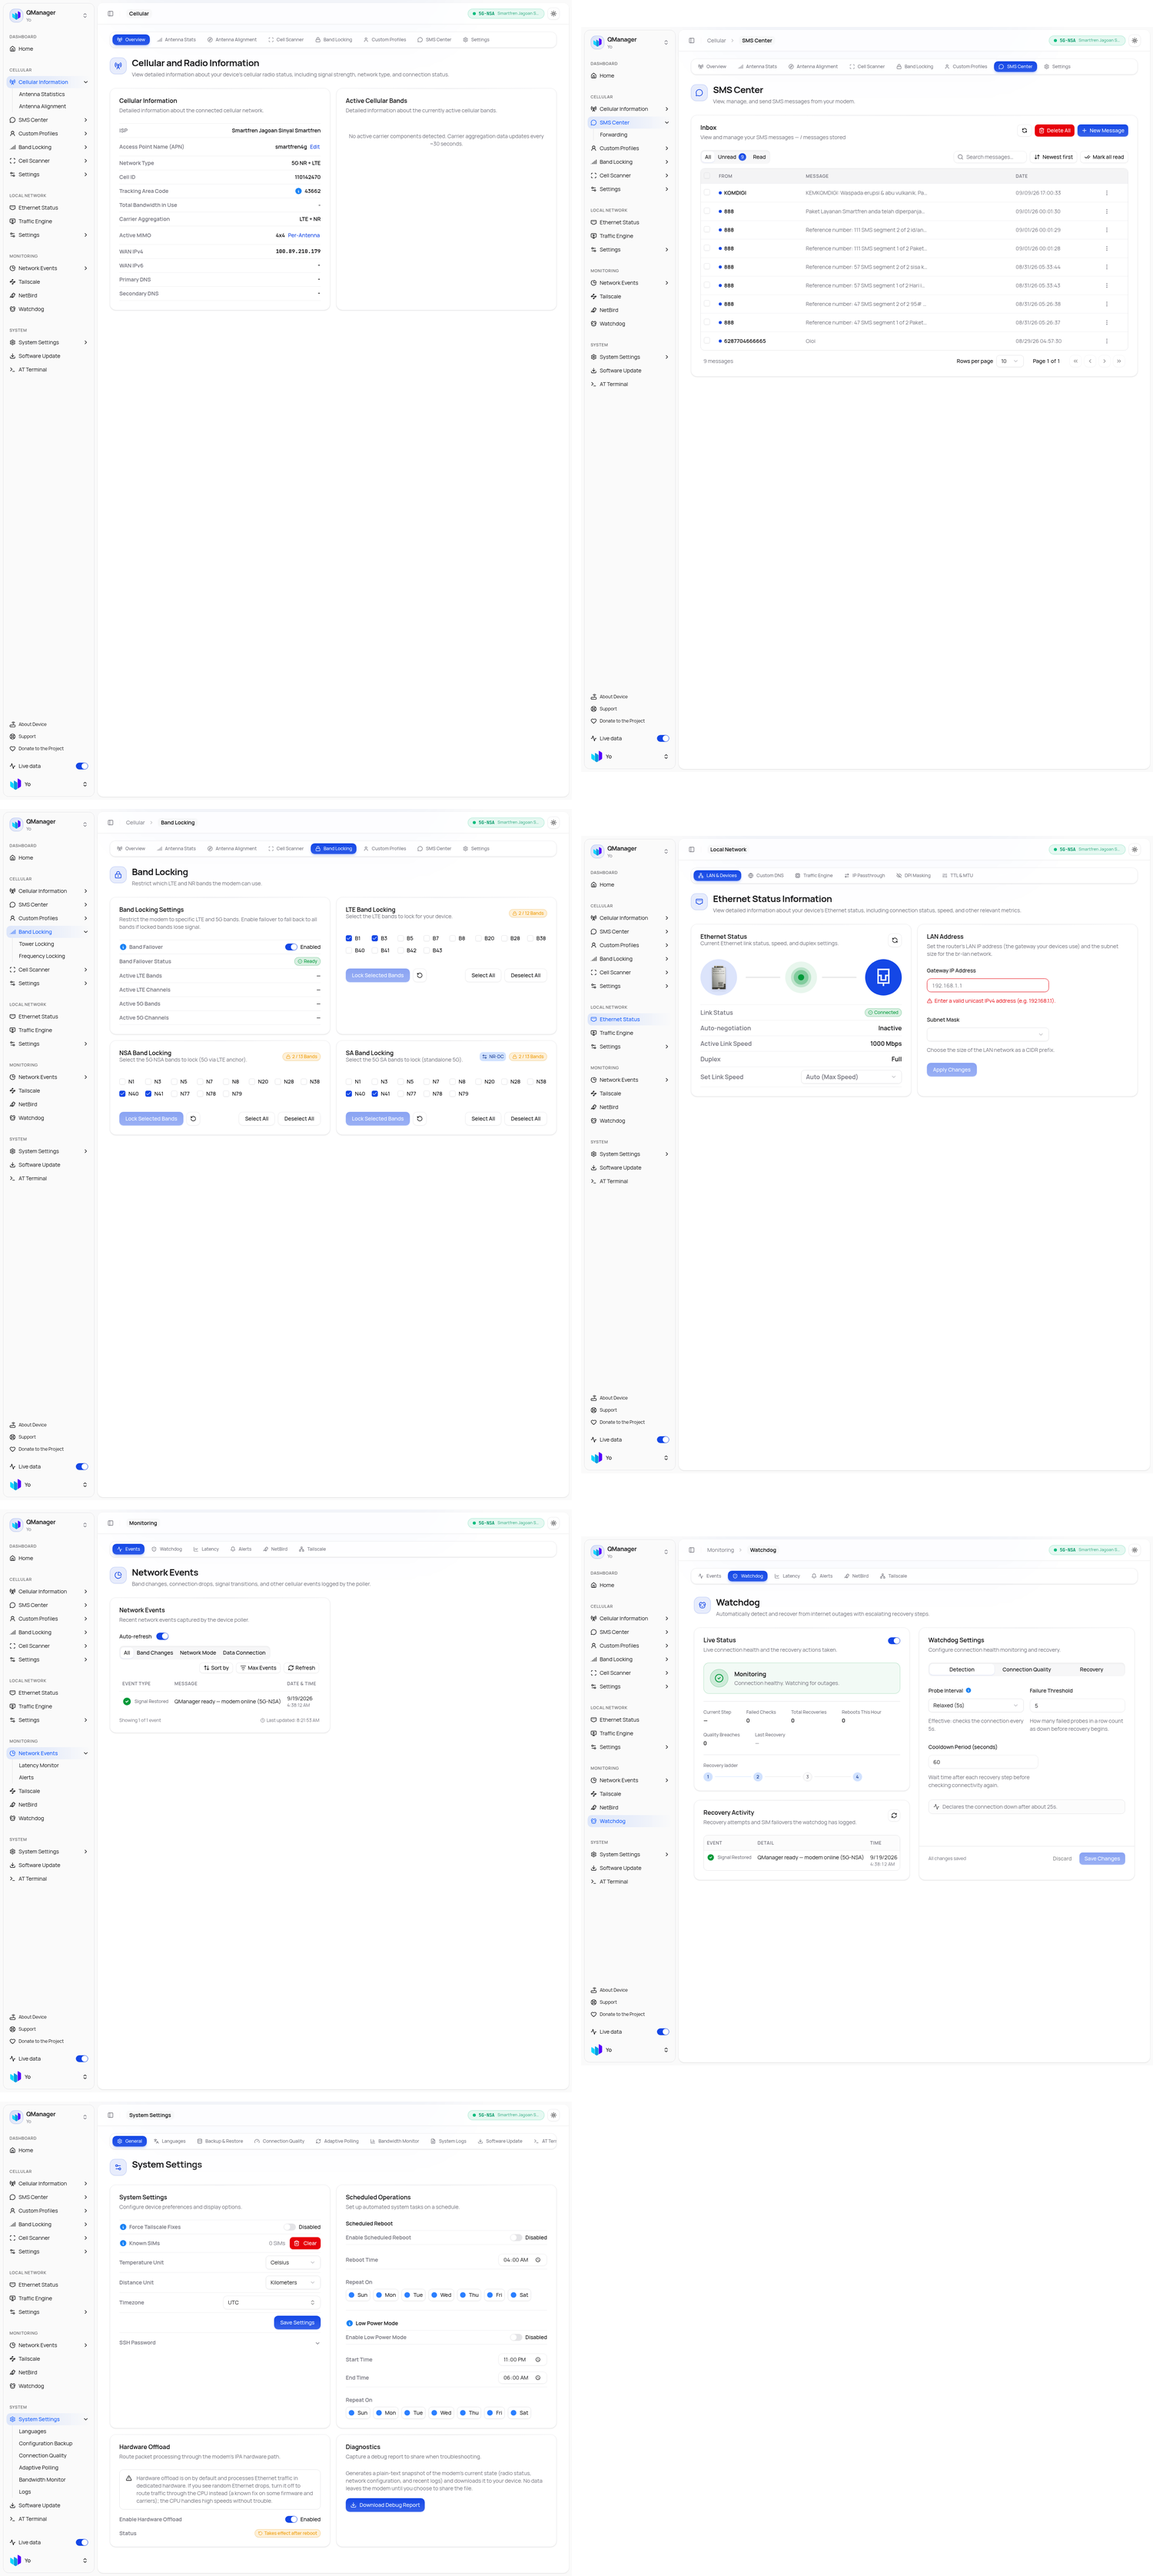
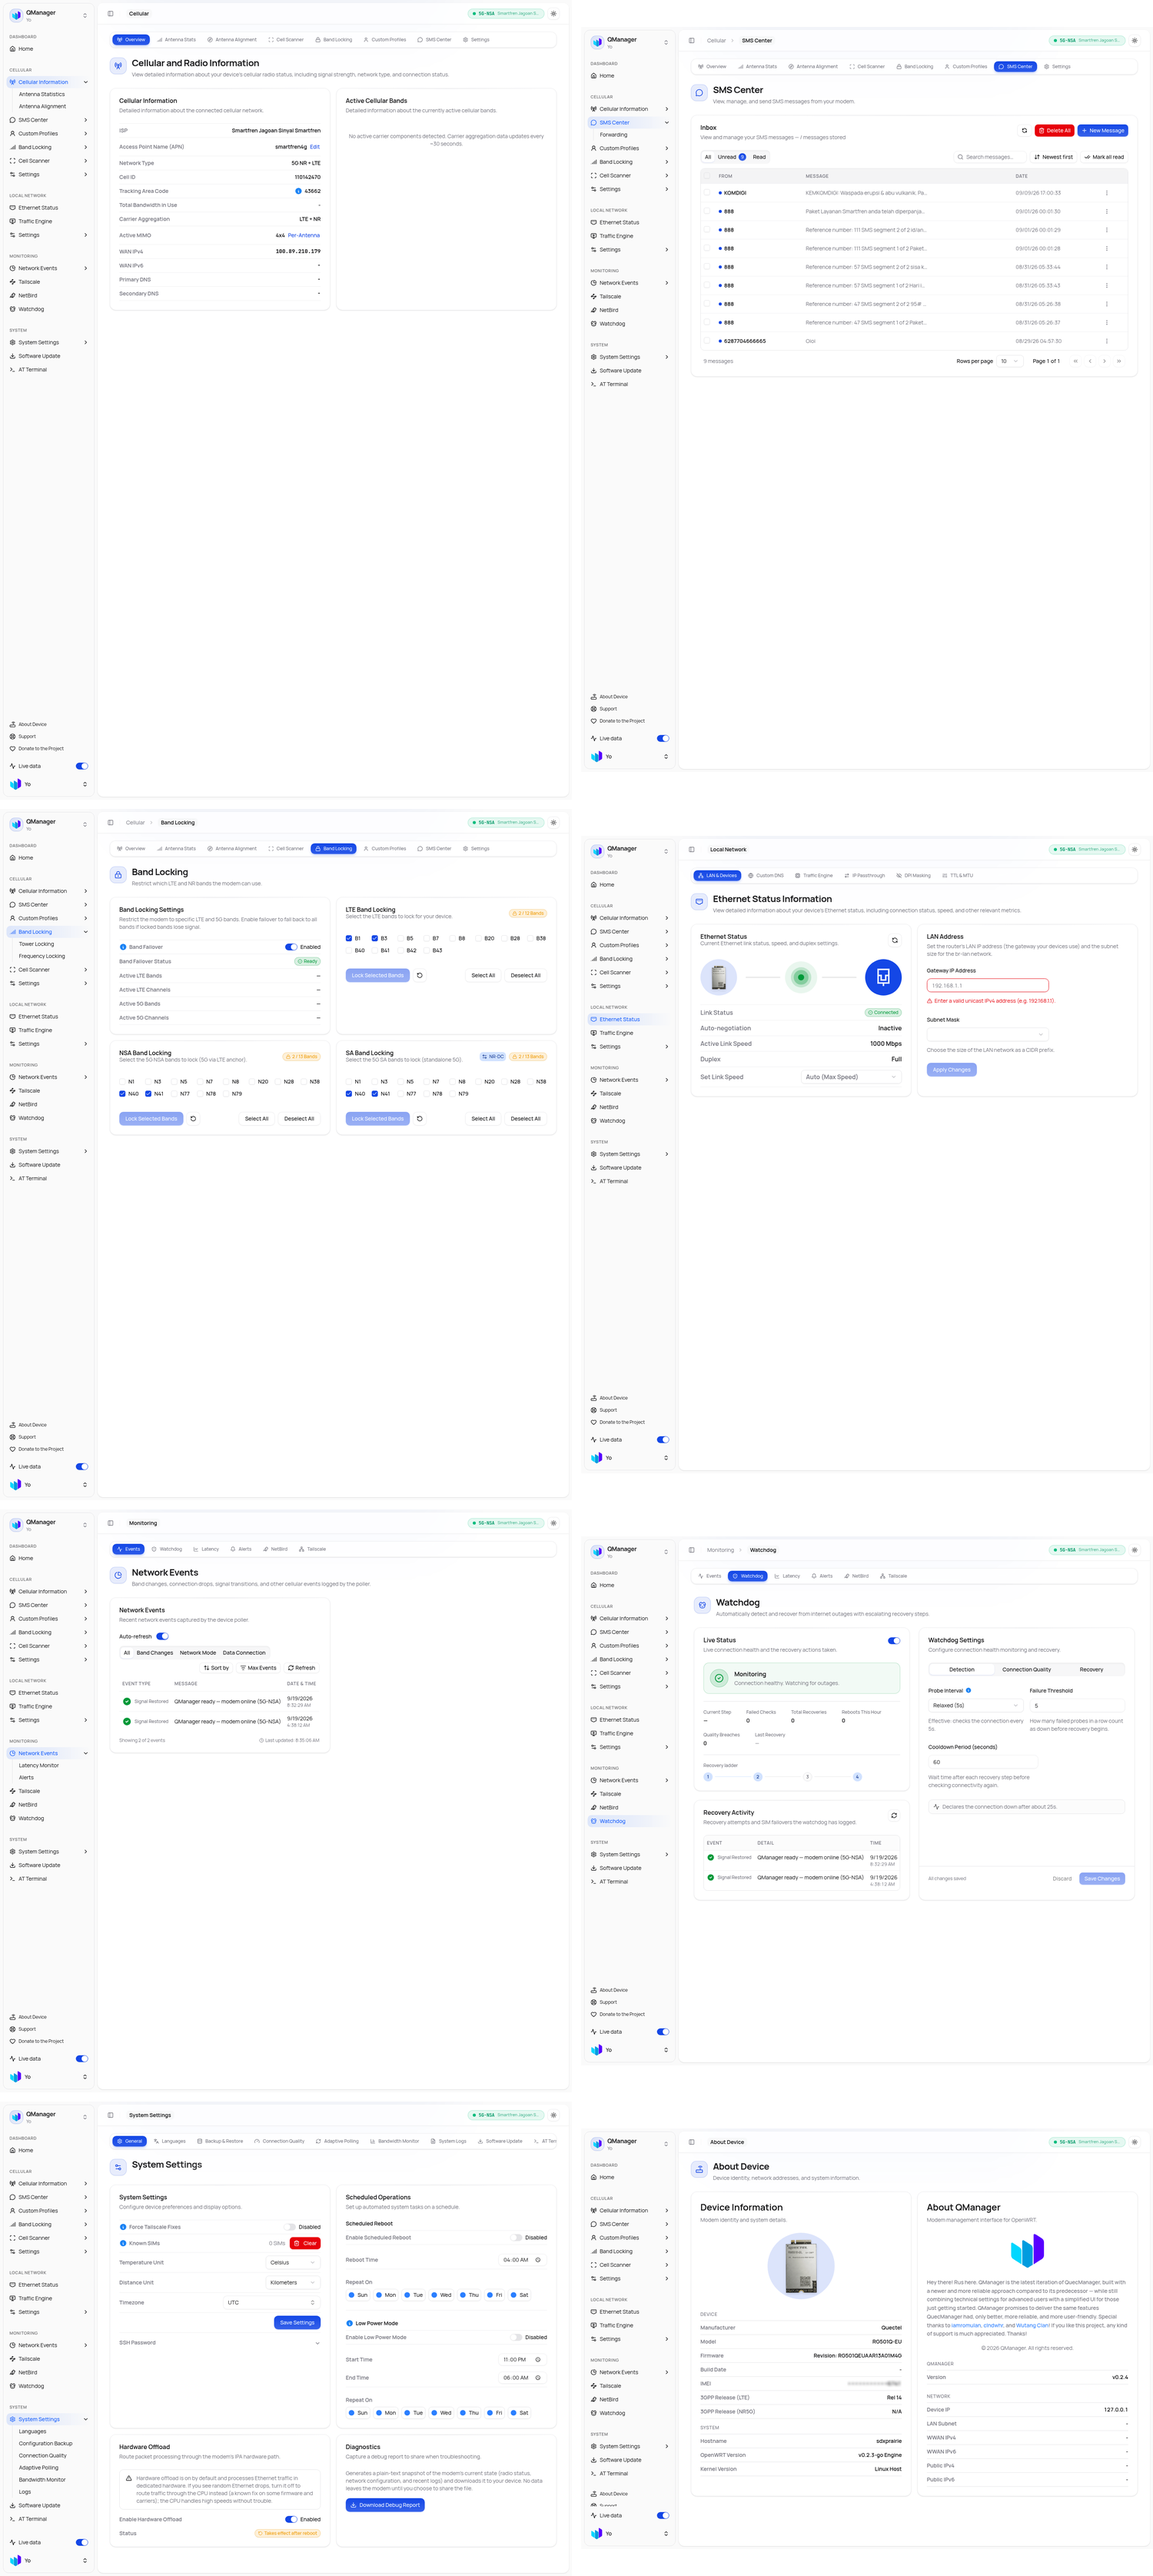
feat(ui): blur & mask nilai sensitif (IMEI di About Device, ICCID di SIM slot) + update screenshots

diff --git a/src/components/about-device/device-information-card.tsx b/src/components/about-device/device-information-card.tsx
@@ -16,6 +16,7 @@ import { useTranslation } from "react-i18next";
 import type { TFunction } from "i18next";
 
 import type { AboutDeviceData } from "@/types/about-device";
+import { SensitiveValue } from "@/components/ui/sensitive-value";
 
 // =============================================================================
 // DeviceInformationCard — Modem image + device identity & network addresses
@@ -25,6 +26,8 @@ interface DataRow {
   label: string;
   value: string;
   mono?: boolean;
+  /** Nilai sensitif (IMEI, dll) - di-blur & di-mask dengan SensitiveValue. */
+  sensitive?: boolean;
 }
 
 interface DataSection {
@@ -48,7 +51,7 @@ function buildSections(data: AboutDeviceData, t: TFunction): DataSection[] {
         { label: t("about_device.device_info.fields.model_label"), value: data.device.model },
         { label: t("about_device.device_info.fields.firmware_label"), value: data.device.firmware },
         { label: t("about_device.device_info.fields.build_date_label"), value: data.device.build_date },
-        { label: t("about_device.device_info.fields.imei_label"), value: data.device.imei, mono: true },
+        { label: t("about_device.device_info.fields.imei_label"), value: data.device.imei, mono: true, sensitive: true },
         {
           label: t("about_device.device_info.fields.lte_3gpp_release_label"),
           value: data.threeGppRelease.lte,
@@ -194,9 +197,13 @@ const DeviceInformationCard = ({
                         className={`text-sm font-semibold min-w-0 truncate ml-4 ${
                           row.mono ? "tabular-nums" : ""
                         }`}
-                        title={row.value || undefined}
+                        title={row.sensitive ? undefined : row.value || undefined}
                       >
-                        {row.value || "-"}
+                        {row.sensitive ? (
+                          <SensitiveValue value={row.value || "-"} />
+                        ) : (
+                          row.value || "-"
+                        )}
                       </dd>
                     </motion.div>
                   ))}

diff --git a/src/components/ui/sensitive-value.tsx b/src/components/ui/sensitive-value.tsx
@@ -1,0 +1,48 @@
+"use client";
+
+import { useState } from "react";
+
+// =============================================================================
+// SensitiveValue — nilai sensitif (IMEI / ICCID / credential) di-blur
+// -----------------------------------------------------------------------------
+// Default: nilai di-mask (hanya 4 digit terakhir terlihat) + efek blur.
+// Hover (desktop) / klik (mobile) untuk melihat nilai penuh.
+// =============================================================================
+
+interface SensitiveValueProps {
+  value: string;
+  className?: string;
+  /** Jumlah digit terakhir yang tetap terlihat (default 4). */
+  visibleTail?: number;
+}
+
+function maskValue(value: string, tail: number): string {
+  const digits = (value.match(/\d/g) ?? []).length;
+  const tailDigits = value.slice(-tail).match(/\d/g)?.length ?? 0;
+  const masked = "•".repeat(Math.max(1, digits - tailDigits));
+  return `${masked}${value.slice(-tail)}`;
+}
+
+export function SensitiveValue({ value, className, visibleTail = 4 }: SensitiveValueProps) {
+  const [show, setShow] = useState(false);
+
+  if (!value) {
+    return <span className={className}>-</span>;
+  }
+
+  return (
+    <button
+      type="button"
+      aria-label={show ? "Sembunyikan nilai" : "Lihat nilai"}
+      onClick={() => setShow((v) => !v)}
+      onMouseEnter={() => setShow(true)}
+      onMouseLeave={() => setShow(false)}
+      title={show ? value : "Klik atau hover untuk melihat"}
+      className={`inline-flex items-center gap-1 rounded px-0.5 text-left tabular-nums transition-all duration-200 select-none ${
+        show ? "" : "cursor-help blur-[3px] hover:blur-none focus:outline-none focus:blur-none"
+      } ${className ?? ""}`}
+    >
+      {show ? value : maskValue(value, visibleTail)}
+    </button>
+  );
+}

diff --git a/src/components/cellular/sim-slot-card.tsx b/src/components/cellular/sim-slot-card.tsx
@@ -7,6 +7,7 @@ import { Badge } from "@/components/ui/badge";
 import { RefreshCw, ArrowRightLeft, CreditCard, Cpu } from "lucide-react";
 import { authFetch } from "@/lib/auth-fetch";
 import { toast } from "sonner";
+import { SensitiveValue } from "@/components/ui/sensitive-value";
 
 export interface SIMSlotInfo {
   active_slot: number;
@@ -108,7 +109,7 @@ export function SIMSlotCard() {
             </div>
 
             <div className="text-xs text-muted-foreground font-mono truncate">
-              ICCID: {info?.active_slot === 1 ? info.iccid || "Detected" : "Inactive"}
+              ICCID: {info?.active_slot === 1 ? <SensitiveValue value={info.iccid || "Detected"} /> : "Inactive"}
             </div>
 
             <Button
@@ -144,7 +145,7 @@ export function SIMSlotCard() {
             </div>
 
             <div className="text-xs text-muted-foreground font-mono truncate">
-              ICCID: {info?.active_slot === 2 ? info.iccid || "Detected" : "Inactive"}
+              ICCID: {info?.active_slot === 2 ? <SensitiveValue value={info.iccid || "Detected"} /> : "Inactive"}
             </div>
 
             <Button
